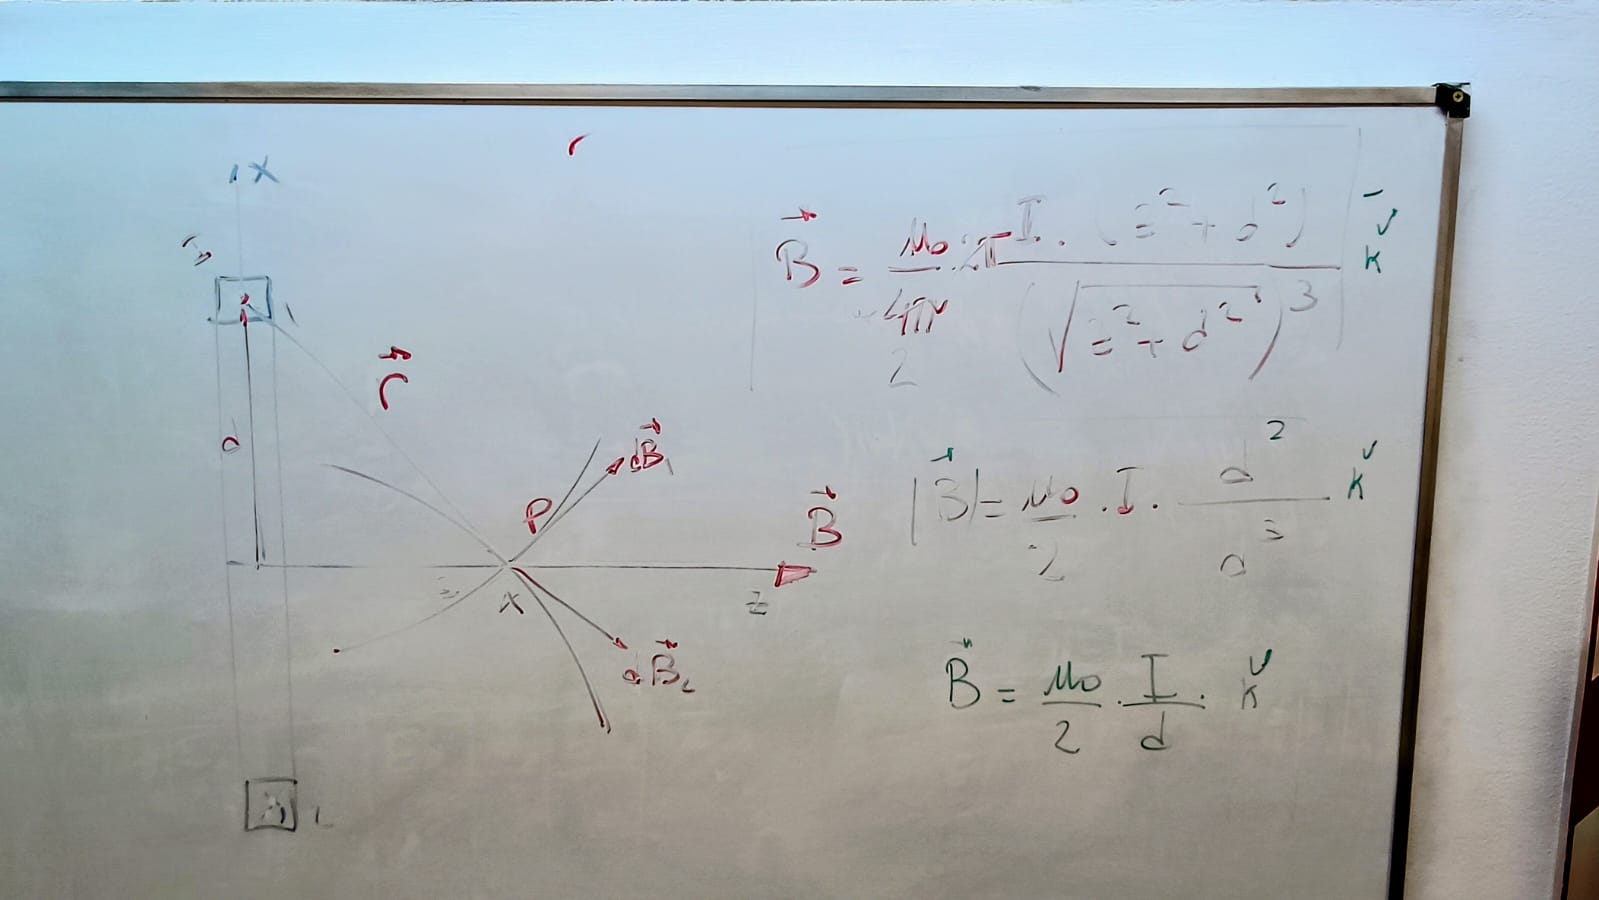
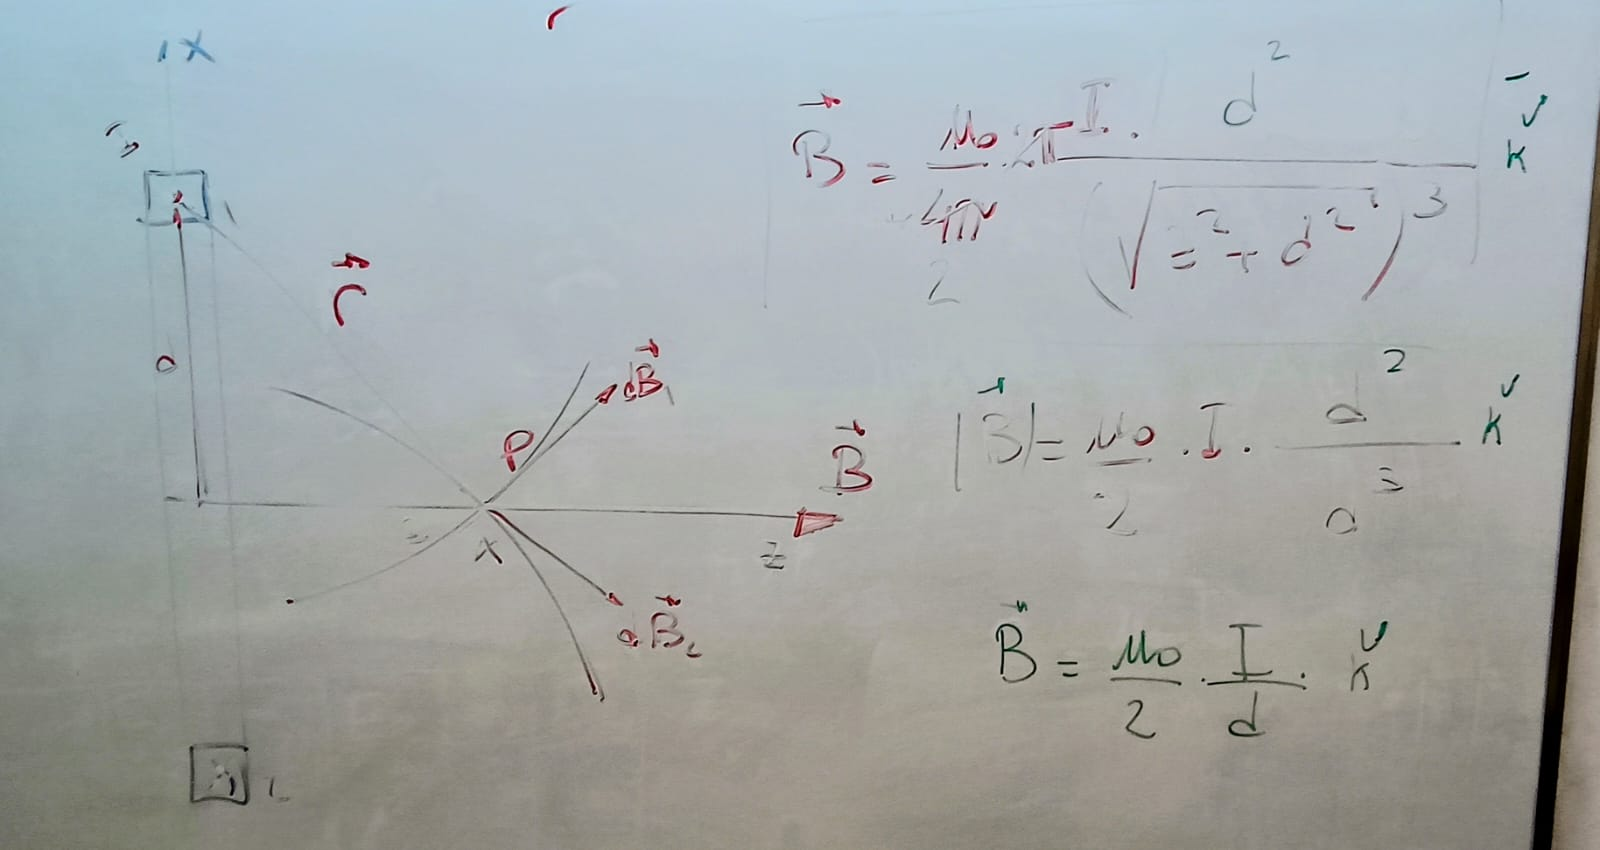
TP4: reemplazo el SVG de la espira por el diagrama campo.jpeg
El SVG dibujado a mano no quedaba prolijo. Se usa en su lugar
imagenes/campo.jpeg, un diagrama más claro de la espira con el
elemento I.dl, el ángulo theta, r y la descomposición de dB en
dBx (axial, sobrevive) y dBy (se cancela por simetría).

diff --git a/tp4_campo_magnetico/README.md b/tp4_campo_magnetico/README.md
@@ -22,4 +22,6 @@ Informe en `tp4_campo_magnetico.ipynb`. Todavía en desarrollo.
   Conclusiones** siguen marcados `_COMPLETAR_`, a la espera del enunciado y de los datos de la
   medición.
 - La foto `imagenes/pizarron_espira.jpeg` (pizarrón con la derivación) es solo una referencia de
-  trabajo, no una figura pensada para la entrega final.
+  trabajo, no se usa en el notebook. La figura que sí se usa, embebida en la Introducción
+  teórica, es `imagenes/campo.jpeg` (diagrama de la espira con $\theta$, $\vec{r}$ y $d\vec{B}$
+  descompuesto en $dB_x$ y $dB_y$).
